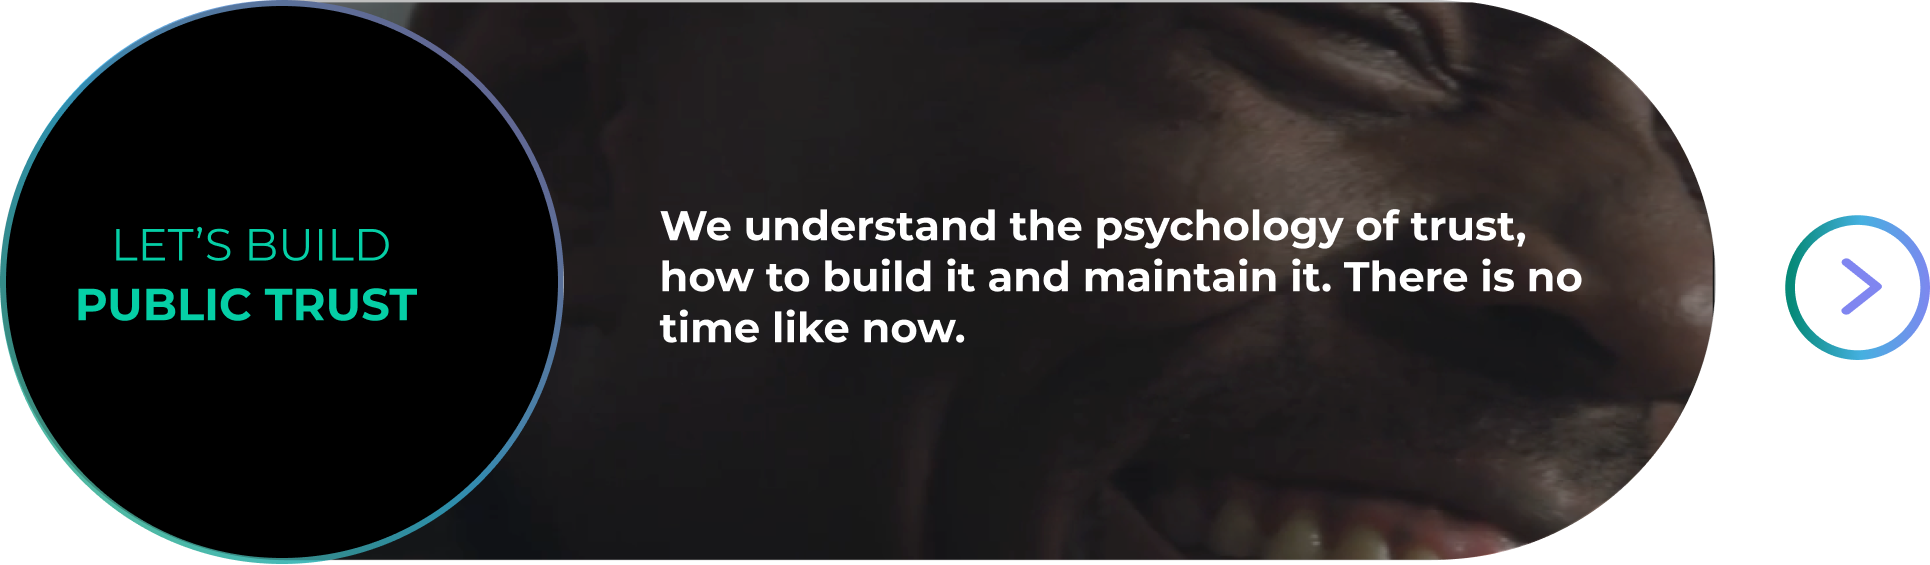
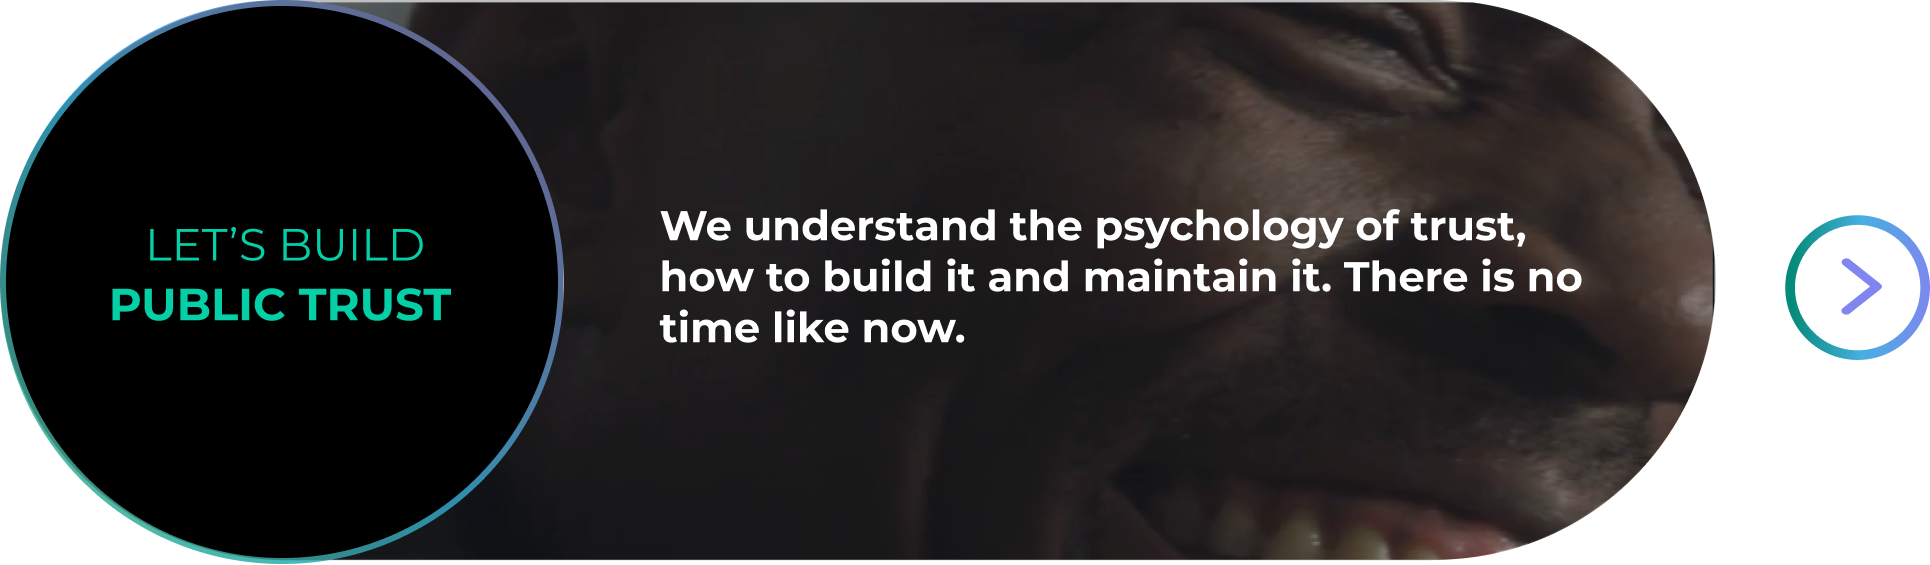
chore: sean amends

Changed region(s): [[0.0622, 0.3912, 0.2176, 0.4814], [0.0311, 0.5115, 0.2487, 0.5717]]

diff --git a/src/pages/Five/Five.tsx b/src/pages/Five/Five.tsx
@@ -30,6 +30,7 @@ export default function Five() {
   }, []);
 
   useEffect(() => {
+    setPlaying(false);
     axios.get(`${URL}database/${title}/${title}.json`).then((res) => {
       setItems(res.data);
       setContent(res.data.find((item: Content) => item.title === id));
@@ -59,8 +60,57 @@ export default function Five() {
           </div>
           <img src="./page5-btn.svg" className="w-[47vw]" />
          {!videoExists && <img src={`${URL}/database/${title}/${content?.image_url}`} className="min-w-[86.2vw] min-h-[22vh] max-h-[22vh]" />}
-          {videoExists && <video poster={`${URL}/database/${title}/${content?.image_url}`}
-          onClick={() => setPlaying(playing => !playing)} ref={videoRef} src={`${URL}/database/${title}/${content?.video_url}`} className="min-w-[86.2vw] min-h-[22vh] max-h-[22vh]" />}
+          {videoExists && <div className="relative min-w-[86.2vw] min-h-[22vh] max-h-[22vh]">
+            <video poster={`${URL}/database/${title}/${content?.image_url}`}
+                   onClick={() => setPlaying(playing => !playing)} ref={videoRef} src={`${URL}/database/${title}/${content?.video_url}`} className="min-w-[86.2vw] min-h-[22vh] max-h-[22vh]" />
+            {!playing&&(<svg
+                className="absolute top-[50%] left-[50%] transform -translate-x-1/2 -translate-y-1/2 w-[15vw]"
+                style={{pointerEvents:"none"}}
+                xmlns="http://www.w3.org/2000/svg"
+                xmlnsXlink="http://www.w3.org/1999/xlink"
+                width="482"
+                height="483"
+                fill="none"
+                viewBox="0 0 482 483"
+            >
+              <linearGradient id="a">
+                <stop offset="0" stopColor="#05cca3"></stop>
+                <stop offset="0.5" stopColor="#46afe1"></stop>
+                <stop offset="1" stopColor="#8085f0"></stop>
+              </linearGradient>
+              <linearGradient
+                  id="b"
+                  x1="0.37"
+                  x2="481.89"
+                  y1="241.26"
+                  y2="241.26"
+                  gradientUnits="userSpaceOnUse"
+                  xlinkHref="#a"
+              ></linearGradient>
+              <linearGradient
+                  id="c"
+                  x1="161.86"
+                  x2="359.05"
+                  y1="12839.7"
+                  y2="12839.7"
+                  gradientUnits="userSpaceOnUse"
+                  xlinkHref="#a"
+              ></linearGradient>
+              <g strokeWidth="7">
+                <path
+                    stroke="url(#b)"
+                    strokeMiterlimit="10"
+                    d="M241.13 478.52c131.035 0 237.26-106.225 237.26-237.26S372.165 4 241.13 4 3.87 110.225 3.87 241.26s106.225 237.26 237.26 237.26z"
+                ></path>
+                <path
+                    stroke="url(#c)"
+                    strokeLinecap="round"
+                    strokeLinejoin="round"
+                    d="M165.36 126.07v230.38l190.19-115.19z"
+                ></path>
+              </g>
+            </svg>)}
+          </div>}
           <h1 className="text-[5vw] text-center">{content?.title}</h1>
           <div
             dangerouslySetInnerHTML={{ __html: content?.description || "" }}

diff --git a/src/pages/Four/Four.tsx b/src/pages/Four/Four.tsx
@@ -11,10 +11,10 @@ import { motion } from "framer-motion";
 import fade from "@/motion/fade";
 
 const fullTitles = {
-  public_trust: "Let's build public trust",
-  collaborate_effectively: "Let's collaborate effectively",
-  right_people: "Let's get the right people",
-  working_cultures: "Let's create better working cultures",
+  public_trust: "Let's build \npublic trust",
+  collaborate_effectively: "Let's collaborate \neffectively",
+  right_people: "Let's get the \nright people",
+  working_cultures: "Let's create better \nworking cultures",
 };
 
 const URL = import.meta.env.VITE_GH_PAGES === "TRUE" ? "/mz-event-screen/" : "";
@@ -70,7 +70,7 @@ export default function Four() {
   return (
     <>
       <div className="relative flex flex-col justify-end items-center w-full h-full z-[90]">
-        <motion.div {... fade(2)} className="flex flex-col grow gap-[5%] mt-[10%]">
+        <motion.div {... fade(2)} className="w-full flex flex-col grow gap-[5%] mt-[10%]">
           <div className="w-full grid grid-cols-2 place-content-center place-items-center">
             <div className="w-full flex flex-col px-[10%] gap-[5vw]">
               <button
@@ -87,9 +87,17 @@ export default function Four() {
             <img className="w-[40vw]" src="./page4-profile.svg" />
           </div>
           <Carousel items={items} />
-          <div className="grid grid-cols-2 w-full px-[3vw] gap-[1vw] h-[3vh]">
-            <Button iconDirection="left" to={`/4/${prevPageId}`}>{prevPageTitle}</Button>
-            <Button iconDirection="right" to={`/4/${nextPageId}`}>{nextPageTitle}</Button>
+          <div className="grid grid-cols-2 w-full px-[3vw] gap-[1vw] h-[3vh] place-items-center place-content-center w-[72%] mx-auto">
+            <Button width={30} py={3} iconDirection="left" to={`/4/${prevPageId}`}>
+              <span className="whitespace-pre" style={{lineHeight: "1", display:"block"}}>
+                {prevPageTitle}
+              </span>
+            </Button>
+            <Button width={30} py={3} iconDirection="right" to={`/4/${nextPageId}`}>
+              <span className="whitespace-pre" style={{lineHeight: "1", display:"block"}}>
+                {nextPageTitle}
+              </span>
+            </Button>
           </div>
         </motion.div>
         <motion.div {... fade(3)} className="font-bold my-[5%] text-[5vw] w-[23%] relative -left-[6%] whitespace-nowrap">

diff --git a/src/App.tsx b/src/App.tsx
@@ -9,6 +9,8 @@ import { AnimatePresence, motion } from "framer-motion";
 import { useBackground } from "./stores";
 import { useIdleTimer } from "react-idle-timer";
 import fade from "./motion/fade";
+import bg from "./bg.mp3";
+import React from "react";
 
 export const DEV = import.meta.env.DEV;
 
@@ -22,12 +24,33 @@ export default function App() {
   const path = location.pathname;
 
   useIdleTimer({
-    timeout: 60000,
+    timeout: 60000*3,
     onIdle: () => {
-      if (DEV) return;
+      // if (DEV) return;
       navigate("/1");
     },
   });
+
+  const [interacted, setInteracted] = React.useState(false);
+
+  React.useEffect(() => {
+    function onClick() {
+      setInteracted(true);
+    }
+    window.addEventListener("click", onClick);
+    return () => {
+      window.removeEventListener("click", onClick);
+    };
+  }, []);
+
+  React.useEffect(() => {
+    if (!interacted) return;
+    const audio = new Audio();
+    audio.src = bg;
+    audio.loop = true;
+    audio.volume = 0.01;
+    audio.play().catch(err => console.error(err));
+  }, [interacted]);
 
   return (
     <AnimatePresence>
@@ -45,7 +68,7 @@ export default function App() {
         <motion.img {... fade(1)} className="w-[46%]" src="./logo.svg" />
         </div>
         <Routes key={1}>
-          <Route path="/" element={<Intro />} />
+          <Route path="/" element={<One />} />
           <Route path="/1" element={<One />} />
           <Route path="/2" element={<Two />} />
           <Route path="/3" element={<Three />} />

diff --git a/src/pages/Four/Button.tsx b/src/pages/Four/Button.tsx
@@ -1,9 +1,9 @@
 import { Link } from "react-router-dom"
 
-export default function Button({children, to, iconDirection}: {children: React.ReactNode, to: string, iconDirection: "left" | "right"}) {
+export default function Button({children, to, iconDirection, width = 45, py = 3}: {children: React.ReactNode, to: string, iconDirection: "left" | "right", width?: number, py?: number}) {
     return (
         <Link to={to}
-        className="w-full min-w-[45vw] max-w-[45vw] text-center cursor-pointer uppercase rounded-full py-[3vw] px-[7vw] text-white  overflow-hidden relative bg-gradient-to-r from-[#05CCA3] via-[#46AFE1] to-[#8085F0] text-[2vw] flex items-center justify-center">
+        className={`w-full min-w-[${width}vw] max-w-[${width}vw] text-center cursor-pointer uppercase rounded-full py-[${py}vw] px-[7vw] text-white  overflow-hidden relative bg-gradient-to-r from-[#05CCA3] via-[#46AFE1] to-[#8085F0] text-[2vw] flex items-center justify-center`}>
             {iconDirection === "left" && <svg className="absolute h-1/3 aspect-square left-3" xmlns="http://www.w3.org/2000/svg" fill="none" viewBox="0 0 24 24" strokeWidth={1.5} stroke="currentColor">
                 <path strokeLinecap="round" strokeLinejoin="round" d="M15.75 19.5L8.25 12l7.5-7.5" />
             </svg>}
